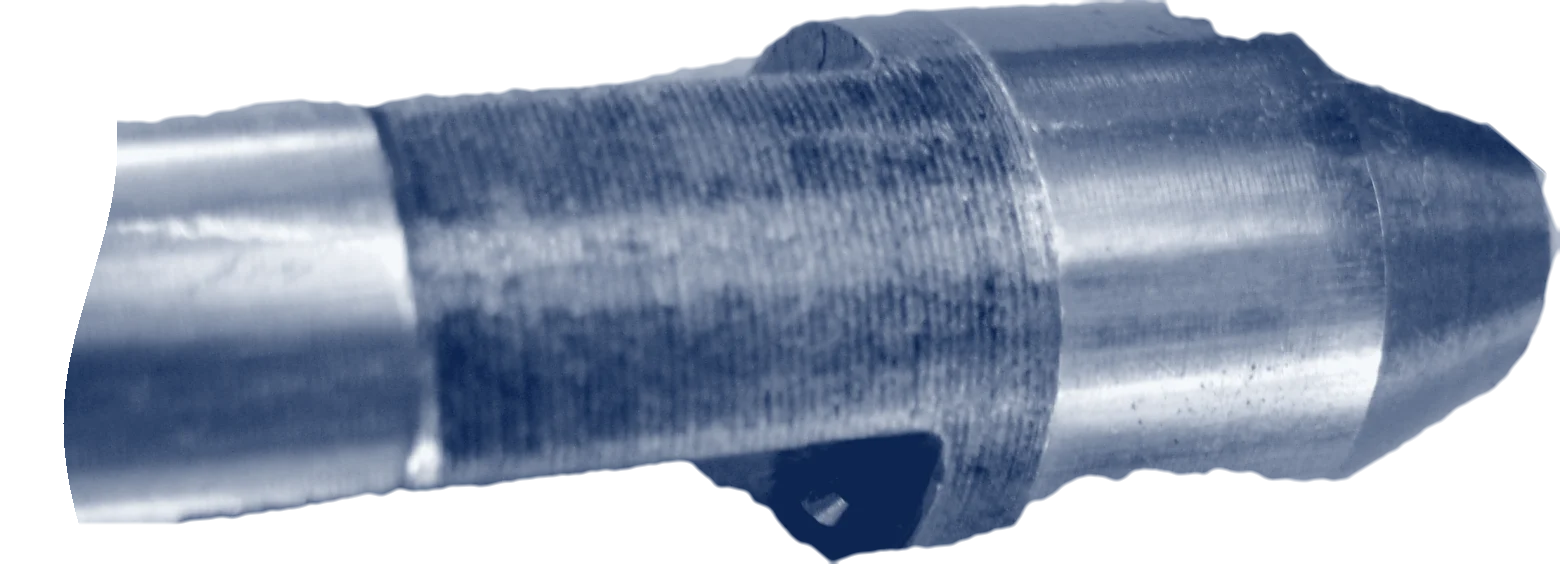
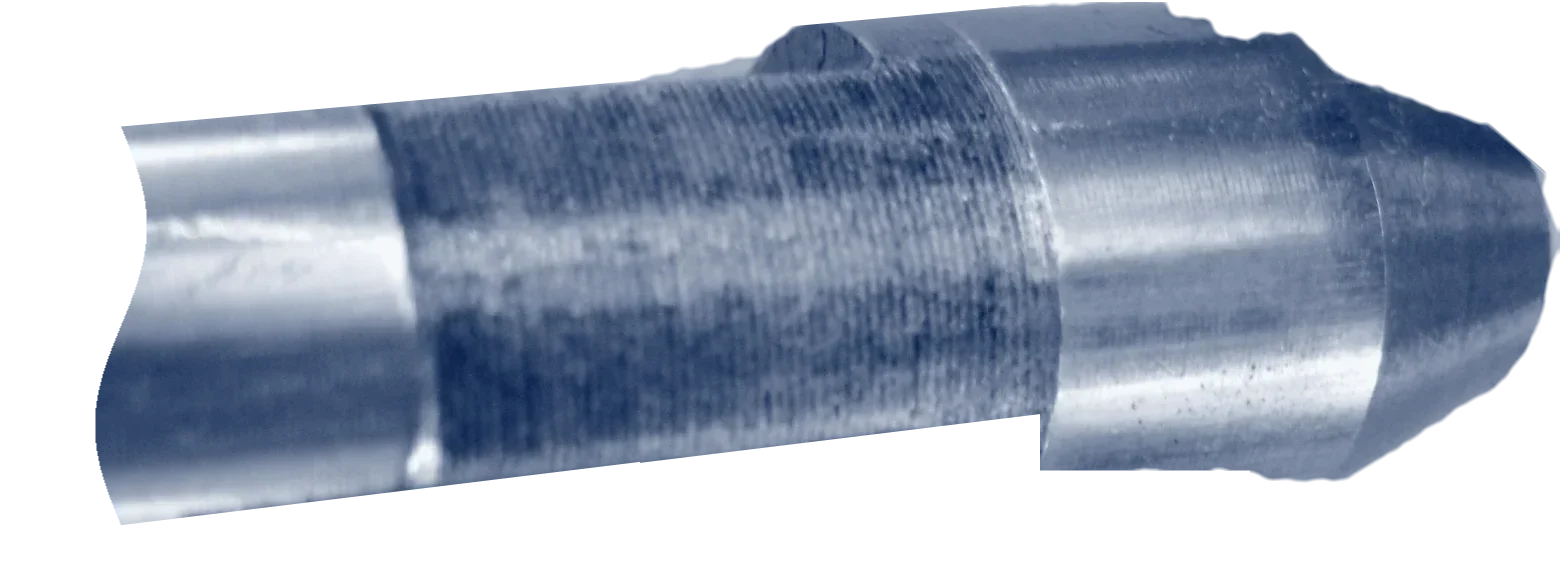
machikoba-recruit: 軸の切り抜きの左端を S 字の破断線で切り直し、下の溝の抜け残りを消す
Claude-Session: https://claude.ai/code/session_01C7KHkfC2ABxbFbXkixZfP4

diff --git a/examples/machikoba-recruit/index.html b/examples/machikoba-recruit/index.html
@@ -392,7 +392,7 @@ dialog.skills::backdrop{background:rgba(31,45,74,.6)}
     <img src="photos/shaft-cutout.webp" width="1560" height="564" alt="旋盤で削った鋼の軸。段の付いた丸い部品で、真ん中にローレット（すべり止めの刻み）がある（よその部品の写真を切り抜いて、青焼きの色にしたもの）" fetchpriority="high">
     <svg viewBox="0 0 1040 376" aria-hidden="true" font-family="'M PLUS 1 Code',monospace" font-weight="500" fill="#fff">
       <g stroke="#fff" stroke-width="1.4" fill="none">
-        <polyline points="77.2,76 77.6,82 77.9,88 78.0,94 77.9,100 77.6,106 77.2,112 76.6,118 75.8,124 74.8,130 73.7,136 72.5,142 71.2,148 69.7,154 68.1,160 66.5,166 64.8,172 63.0,178 61.2,184 59.4,190 57.6,196 55.8,202 54.1,208 52.4,214 50.8,220 49.3,226 47.9,232 46.7,238 45.5,244 44.5,250 43.7,256 43.0,262 42.5,268 42.2,274 42.0,280 42.0,286 42.3,292 42.6,298 43.2,304 43.9,310 44.8,316 45.9,322 47.1,328 48.4,334 49.8,340 51.3,346 53.0,352"/>
+        <polyline points="80.0,84.1 82.7,90.7 85.4,97.4 87.9,104.0 90.2,110.7 92.3,117.3 94.0,123.9 95.4,130.6 96.5,137.2 97.1,143.9 97.3,150.5 97.1,157.2 96.5,163.8 95.4,170.4 94.0,177.1 92.3,183.7 90.2,190.4 87.9,197.0 85.4,203.7 82.7,210.3 80.0,217.0 77.3,223.6 74.6,230.2 72.1,236.9 69.8,243.5 67.7,250.2 66.0,256.8 64.6,263.5 63.5,270.1 62.9,276.8 62.7,283.4 62.9,290.0 63.5,296.7 64.6,303.3 66.0,310.0 67.7,316.6 69.8,323.3 72.1,329.9 74.6,336.6 77.3,343.2 80.0,349.8"/>
         <path d="M40 178H1100" stroke-dasharray="36 8 4 8" stroke-width="1.1"/>
         <path d="M520 30V-56M1040 150V-56M520 -38H1040"/>
         <path d="M790 1H1132M790 312H1132M1110 1V312"/>

diff --git a/examples/machikoba-recruit/README.md b/examples/machikoba-recruit/README.md
@@ -384,6 +384,7 @@ site-skills 0.2.3 の inspect（中央揃え・色相・丸いラベル・角丸
 - **inspect**：`--allow photo-cover,sparse-first,svg-hero` で FAIL 0 / WARN 0。理由：主役の切り抜き1つを大きく置き、残りを図面の線と余白で作る方向なので、写真の覆う割合（24%）と写真や絵の数（2個）は気にしない（`aesthetic.md`「最初の画面の作り方の方向」）。svg-hero の SVG は絵ではなく、写真の部品に重ねた寸法と赤ペンの書き込み（題材の情報そのもの）。
 - スクリーンショット（PC 1440・1280×720・スマホ 390）で直したこと：1280×720 で軸の右の寸法が表題欄にかかり、下の公差が画面の外に出た → 軸の幅を画面の高さで抑え、表題欄を細く／スマホで軸と寸法の重なりがずれた（図の上の余白を padding で取ったため）→ margin に／スマホで赤ペンの書き込みが右へはみ出た → 2行にしてスマホ用の矢印を引いた。「図面に見えるか・赤ペンが浮いていないか」：赤ペンは寸法（公差）と部品の肩に掛かっていて、検図の書き込みに見える。
 - 明るさ・白っぽい部分（PC／スマホ）：112・10%／115・11%。
+- 切り抜きの直し（同じ日、親セッションの指摘）：①軸の左端が白く欠けたギザギザだった → 細い軸の部分（ローレットの手前まで）は、上下の縁を測った直線の帯に置き換え（3px 内側）、左端を軸の太さいっぱいの S 字の破断線（正弦1周）で切り、白の破断線も同じ形に引き直した ②ローレットの右下の黒い欠け（軸の溝の口）が抜け残りに見えた → ローレットの下の縁の直線で切って消した。頭の上下の縁も、測った直線で整えた。
 
 ## スキルで足りなかったこと（自分で決めた部分）
 スキルを育てるための手がかり。ここに書いたことは、どのサイトの値でもなく、自分で決めた。
